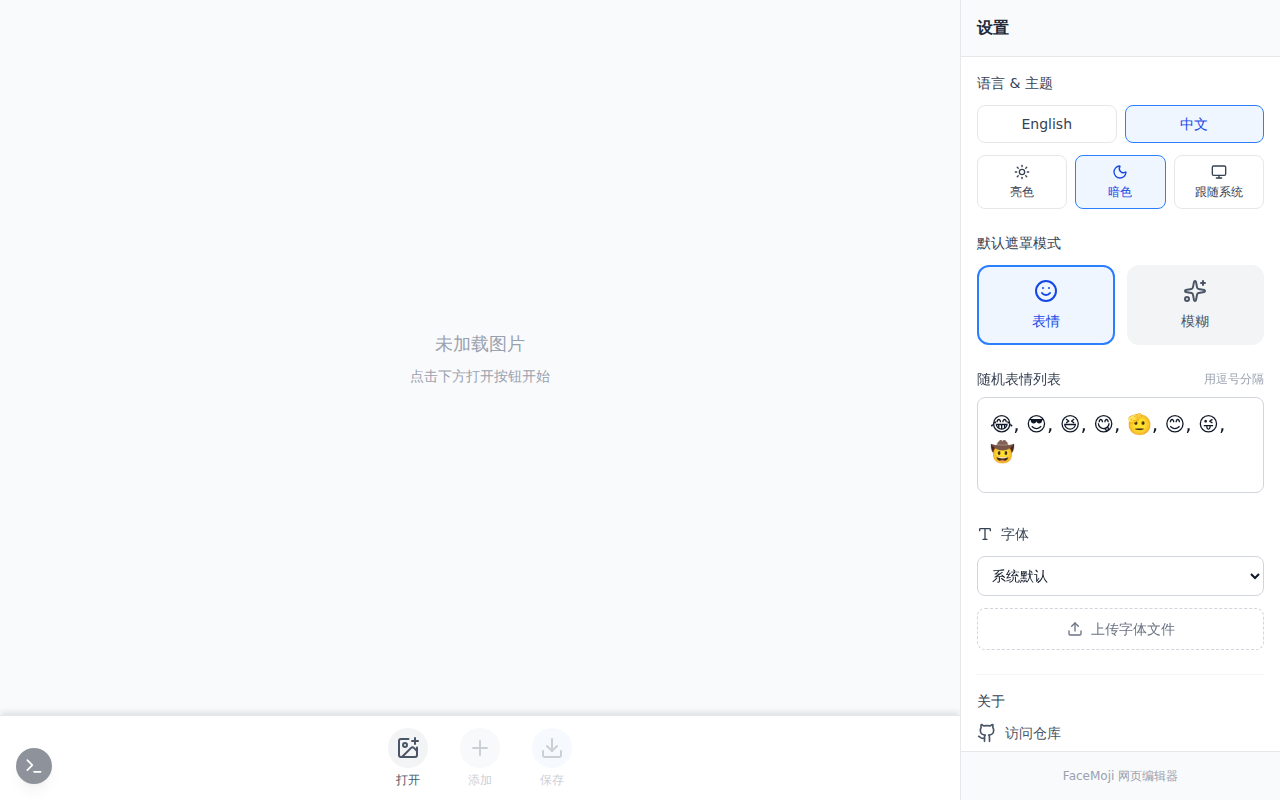
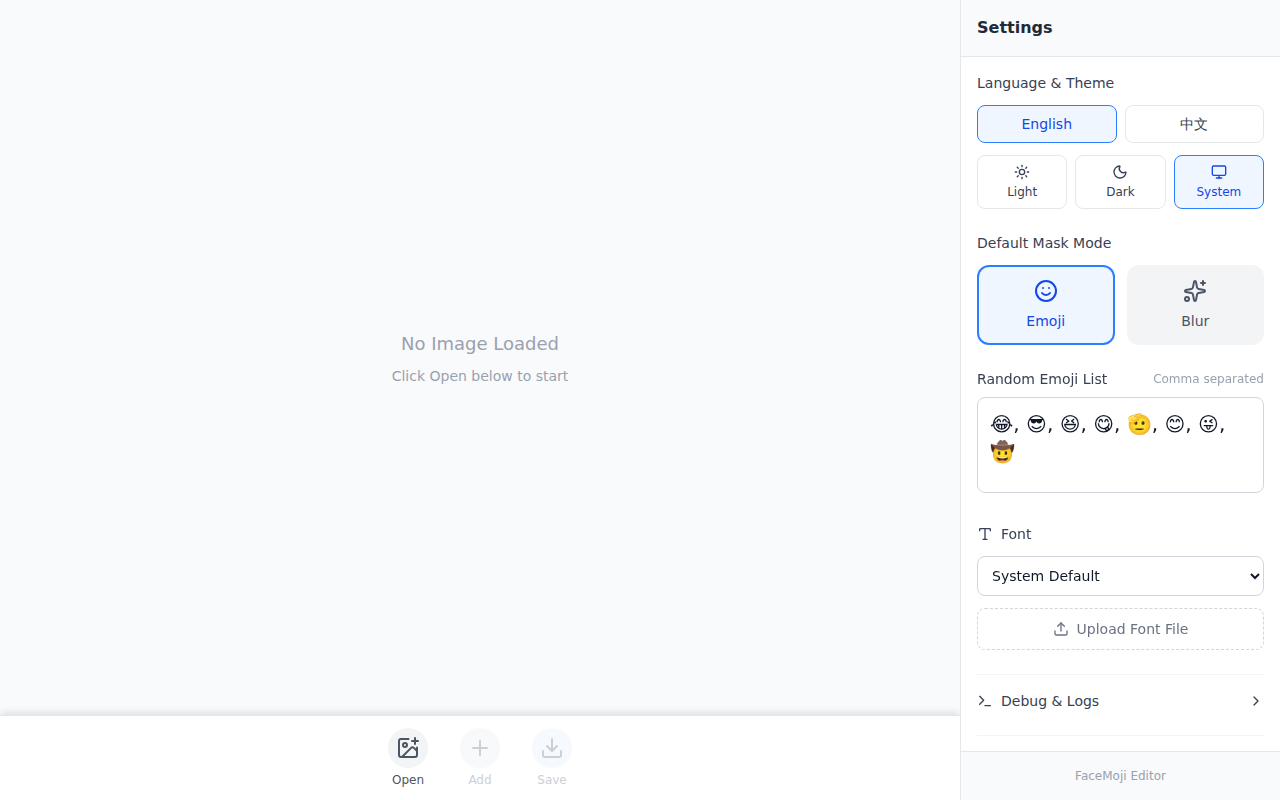
Rename project to FaceMoji, move debug console to settings, update PWA screenshots
- Renamed "FaceMoji Web" to "FaceMoji" in index.html, vite.config.ts, and translations.
- Moved debug console functionality from a floating window to a collapsible section in SettingsPanel.
- Removed DebugConsole component.
- Updated PWA screenshots with new binaries for desktop and mobile (captured via Playwright).
- Updated manifest to include mobile screenshot.

diff --git a/web/src/components/SettingsPanel.tsx b/web/src/components/SettingsPanel.tsx
@@ -1,6 +1,7 @@
-import React from 'react';
+import React, { useRef, useEffect, useState } from 'react';
 import { useEditorStore } from '../store/editorStore';
-import { Smile, Sparkles, Type, Upload, Github, Moon, Sun, Monitor } from 'lucide-react';
+import { useDebugStore } from './debug/debugStore';
+import { Smile, Sparkles, Type, Upload, Github, Moon, Sun, Monitor, Terminal, Trash2, ChevronRight, ChevronDown } from 'lucide-react';
 import { useTranslation } from '../i18n/TranslationContext';
 import { useTheme } from './ThemeProvider';
 
@@ -11,8 +12,19 @@ interface SettingsPanelProps {
 
 export const SettingsPanel: React.FC<SettingsPanelProps> = ({ isOpen, onClose }) => {
     const store = useEditorStore();
+    const debugStore = useDebugStore();
     const { t, locale, setLocale } = useTranslation();
     const { theme, setTheme } = useTheme();
+
+    const [isDebugExpanded, setIsDebugExpanded] = useState(false);
+    const logsEndRef = useRef<HTMLDivElement>(null);
+
+    // Auto-scroll logs
+    useEffect(() => {
+        if (isDebugExpanded) {
+            logsEndRef.current?.scrollIntoView({ behavior: 'smooth' });
+        }
+    }, [debugStore.logs, isDebugExpanded]);
 
     // Handlers
     const handleFontUpload = (e: React.ChangeEvent<HTMLInputElement>) => {
@@ -200,6 +212,65 @@ export const SettingsPanel: React.FC<SettingsPanelProps> = ({ isOpen, onClose })
                         </section>
                     </div>
                 )}
+
+                {/* Debug Section */}
+                <section className="pt-4 border-t border-gray-100 dark:border-gray-800">
+                    <button
+                        onClick={() => setIsDebugExpanded(!isDebugExpanded)}
+                        className="flex items-center justify-between w-full text-sm font-medium text-gray-700 dark:text-gray-300 mb-3 hover:text-blue-600 dark:hover:text-blue-400 transition-colors"
+                    >
+                        <div className="flex items-center gap-2">
+                            <Terminal className="w-4 h-4" />
+                            <span>Debug & Logs</span>
+                        </div>
+                        {isDebugExpanded ? <ChevronDown className="w-4 h-4" /> : <ChevronRight className="w-4 h-4" />}
+                    </button>
+
+                    {isDebugExpanded && (
+                        <div className="space-y-3 animate-fade-in rounded-lg bg-gray-50 dark:bg-gray-950 p-3 border border-gray-200 dark:border-gray-800">
+                             {/* Settings */}
+                            <div className="space-y-2">
+                                <div className="flex items-center justify-between">
+                                    <label className="text-xs text-gray-500 dark:text-gray-400">Model:</label>
+                                    <div className="flex rounded overflow-hidden border border-gray-300 dark:border-gray-700">
+                                        <button
+                                            onClick={() => debugStore.setConfig({ model: 'fp32' })}
+                                            className={`px-2 py-1 text-[10px] font-medium ${debugStore.config.model === 'fp32' ? 'bg-blue-600 text-white' : 'bg-gray-100 text-gray-600 dark:bg-gray-800 dark:text-gray-400'}`}
+                                        >FP32</button>
+                                        <button
+                                            onClick={() => debugStore.setConfig({ model: 'int8' })}
+                                            className={`px-2 py-1 text-[10px] font-medium ${debugStore.config.model === 'int8' ? 'bg-blue-600 text-white' : 'bg-gray-100 text-gray-600 dark:bg-gray-800 dark:text-gray-400'}`}
+                                        >INT8</button>
+                                    </div>
+                                </div>
+                                <div className="flex items-center justify-between">
+                                    <label className="text-xs text-gray-500 dark:text-gray-400">Backend:</label>
+                                    <span className="text-[10px] text-gray-400 dark:text-gray-500">WASM (Single-Threaded)</span>
+                                </div>
+                            </div>
+
+                             {/* Logs Header */}
+                            <div className="flex items-center justify-between pt-2 border-t border-gray-200 dark:border-gray-800">
+                                <span className="text-xs font-medium text-gray-500">Logs</span>
+                                <button onClick={debugStore.clearLogs} className="p-1 hover:bg-gray-200 dark:hover:bg-gray-800 rounded text-gray-500 transition-colors" title="Clear Logs">
+                                    <Trash2 size={12} />
+                                </button>
+                            </div>
+
+                            {/* Logs */}
+                            <div className="h-40 overflow-y-auto p-2 bg-white dark:bg-gray-900 rounded border border-gray-200 dark:border-gray-800 font-mono text-[10px] leading-tight space-y-1">
+                                {debugStore.logs.length === 0 && <div className="text-gray-400 italic text-center py-4">No logs yet...</div>}
+                                {debugStore.logs.map((log, i) => (
+                                    <div key={i} className={`flex gap-2 break-all ${log.level === 'error' ? 'text-red-500' : log.level === 'warn' ? 'text-yellow-500' : 'text-green-600 dark:text-green-400'}`}>
+                                        <span className="text-gray-400 shrink-0 opacity-50">[{log.timestamp}]</span>
+                                        <span>{log.message}</span>
+                                    </div>
+                                ))}
+                                <div ref={logsEndRef} />
+                            </div>
+                        </div>
+                    )}
+                </section>
 
                  {/* About Section */}
                  <section className="pt-4 border-t border-gray-100 dark:border-gray-800">

diff --git a/web/vite.config.ts b/web/vite.config.ts
@@ -22,7 +22,7 @@ export default defineConfig({
       registerType: 'autoUpdate',
       includeAssets: ['favicon.ico', 'apple-touch-icon.png'],
       manifest: {
-        name: 'FaceMoji Web',
+        name: 'FaceMoji',
         short_name: 'FaceMoji',
         description: 'Face privacy protection with Emojis and Blur',
         theme_color: '#ffffff',
@@ -55,17 +55,17 @@ export default defineConfig({
         ],
         screenshots: [
           {
-            src: 'screenshot-desktop.png',
-            sizes: '1280x800',
+            src: 'screenshot-mobile.png',
+            sizes: '375x812',
             type: 'image/png',
-            form_factor: 'wide',
-            label: 'Desktop Editor'
+            label: 'Mobile Editor'
           },
           {
             src: 'screenshot-desktop.png',
             sizes: '1280x800',
             type: 'image/png',
-            label: 'Editor View'
+            form_factor: 'wide',
+            label: 'Desktop Editor'
           }
         ],
         share_target: {

diff --git a/web/src/App.tsx b/web/src/App.tsx
@@ -7,7 +7,6 @@ import { SettingsPanel } from './components/SettingsPanel';
 import { MaskControls } from './components/MaskControls';
 import { ConfirmDialog } from './components/ConfirmDialog';
 import { useEditorStore } from './store/editorStore';
-import { DebugConsole } from './components/debug/DebugConsole';
 import { faceDetector } from './ai/OnnxFaceDetector';
 import { useTranslation } from './i18n/TranslationContext';
 
@@ -83,8 +82,6 @@ const AppContent = () => {
         onConfirm={handleClearConfirm}
         onCancel={() => setShowClearDialog(false)}
       />
-
-      <DebugConsole />
     </div>
   );
 };

diff --git a/web/src/i18n/zh.ts b/web/src/i18n/zh.ts
@@ -26,8 +26,8 @@ export const zh: TranslationKeys = {
     light: '亮色',
     dark: '暗色',
     system: '跟随系统',
-    footer: 'FaceMoji 网页编辑器',
-    appTitle: 'FaceMoji 网页版',
+    footer: 'FaceMoji 编辑器',
+    appTitle: 'FaceMoji',
     detectingFaces: '正在检测人脸...',
     removeImageTitle: '移除图片？',
     removeImageMessage: '您的图片已保存。是否要将其从工作区移除？',

diff --git a/web/src/i18n/en.ts b/web/src/i18n/en.ts
@@ -26,8 +26,8 @@ export const en: TranslationKeys = {
     light: 'Light',
     dark: 'Dark',
     system: 'System',
-    footer: 'FaceMoji Web Editor',
-    appTitle: 'FaceMoji Web',
+    footer: 'FaceMoji Editor',
+    appTitle: 'FaceMoji',
     detectingFaces: 'Detecting faces...',
     removeImageTitle: 'Remove Image?',
     removeImageMessage: 'Your image has been saved. Do you want to remove it from the workspace?',

diff --git a/web/index.html b/web/index.html
@@ -5,7 +5,7 @@
     <link rel="icon" type="image/png" href="/icon.png" />
     <meta name="viewport" content="width=device-width, initial-scale=1.0, viewport-fit=cover" />
     <meta name="theme-color" content="#ffffff" />
-    <title>FaceMoji Web</title>
+    <title>FaceMoji</title>
   </head>
   <body>
     <div id="root"></div>
